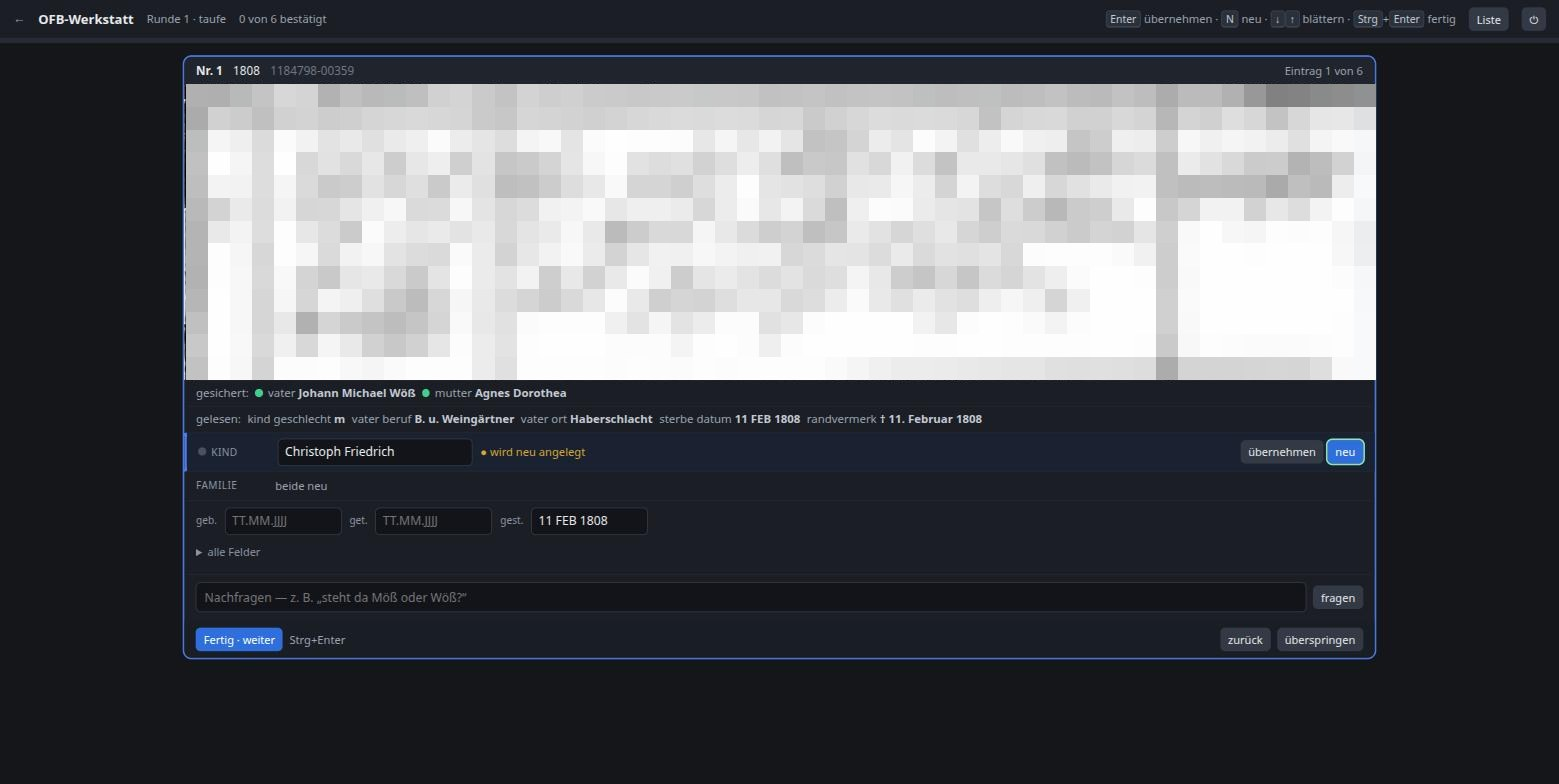
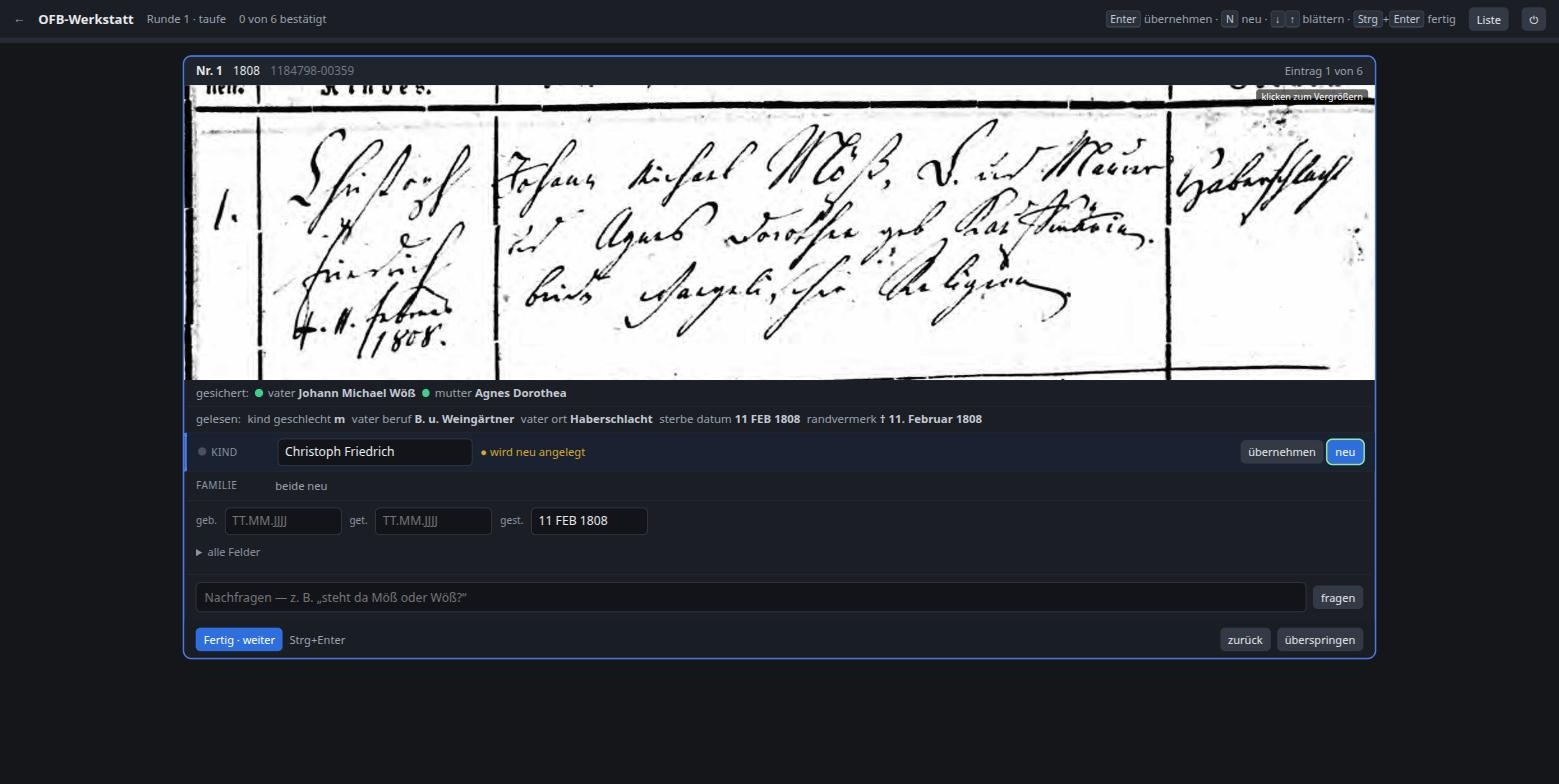
README: Korrekturmaske unverpixelt, mit Quellenangabe
Ein einzelner Eintragsstreifen mit Quellenangabe ist von den
Archion-Bedingungen gedeckt; die Verpixelung entfaellt.

Changed region(s): [[0.0924, 0.0918, 0.8929, 0.4898]]

diff --git a/README.md b/README.md
@@ -155,12 +155,13 @@ Kontextquellen und Aktkarten in den Einstellungen:
 ![Einstellungen](doku/screenshots/einstellungen.jpg)
 
 Die Korrekturmaske, ein Eintrag zur Zeit: oben der Bildstreifen des
-Originaleintrags (hier unkenntlich gemacht — der Scan darf nicht ins Repo,
-siehe [Rechtliches](#rechtliches)), darunter was der Abgleich gesichert hat,
-was gelesen wurde, und die Felder, die eine Entscheidung brauchen. Das
-Nachfragen-Feld stellt Fragen direkt am Eintrag („steht da Möß oder Wöß?"):
+Originaleintrags, darunter was der Abgleich gesichert hat, was gelesen wurde,
+und die Felder, die eine Entscheidung brauchen. Das Nachfragen-Feld stellt
+Fragen direkt am Eintrag („steht da Möß oder Wöß?"):
 
 ![Korrigieren](doku/screenshots/korrigieren.jpg)
+
+*Bildstreifen: Taufregister Haberschlacht 1808, Digitalisat via Archion.*
 
 ## Ein Sprachmodell ist Voraussetzung, nicht Zubehör
 
